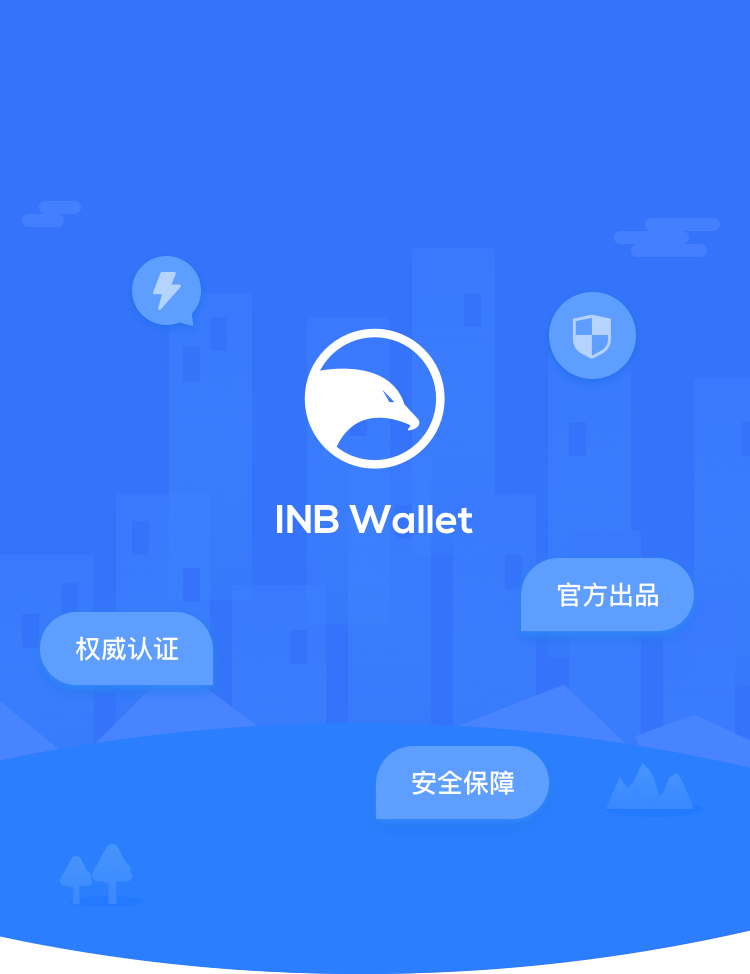
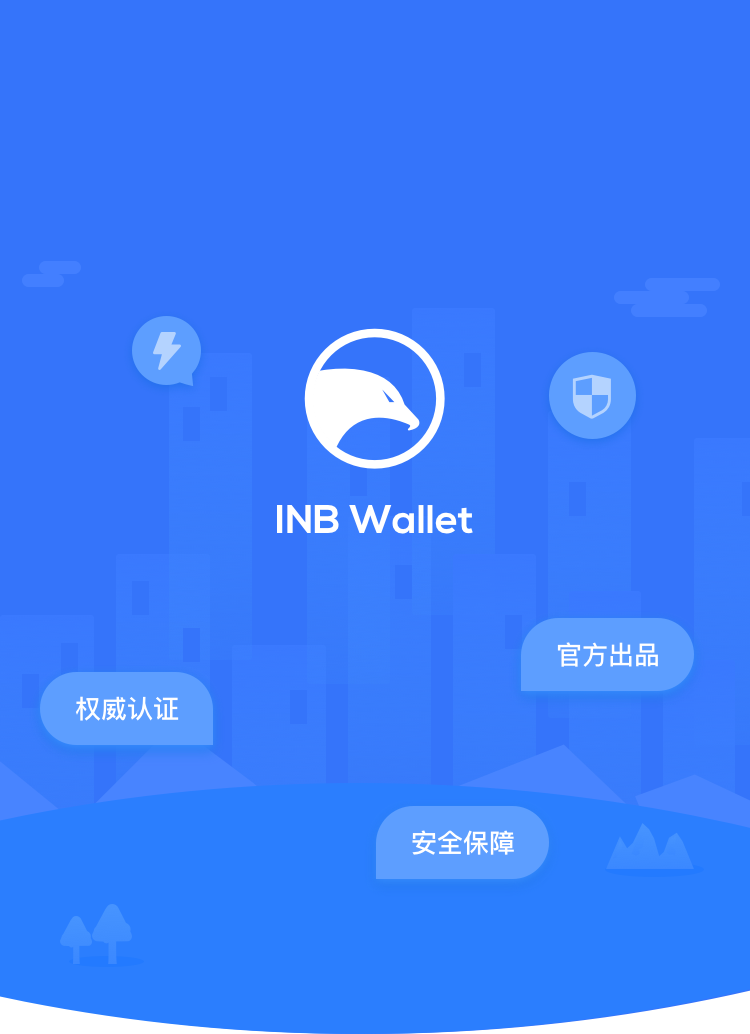
添加钱包都默认选中 修改二次提示框UI布局 修改loading不消失的bug 修改启动图

diff --git a/inb-wallet-ios/Common/Views/ConfirmView.m b/inb-wallet-ios/Common/Views/ConfirmView.m
@@ -358,7 +358,7 @@
     }];
     [self.toAddrStr mas_remakeConstraints:^(MASConstraintMaker *make) {
         make.left.right.mas_equalTo(self.numberStr);
-        make.top.mas_equalTo(self.numberStr.mas_bottom).mas_offset(15);
+        make.top.mas_equalTo(self.numberStr.mas_bottom).mas_offset(18);
     }];
     [self.toAddrValue mas_remakeConstraints:^(MASConstraintMaker *make) {
         make.top.mas_equalTo(self.toAddrStr);
@@ -366,7 +366,7 @@
     }];
     [self.noteStr mas_remakeConstraints:^(MASConstraintMaker *make) {
         make.left.right.mas_equalTo(self.toAddrStr);
-        make.top.mas_equalTo(self.toAddrValue.mas_bottom).mas_offset(15);
+        make.top.mas_equalTo(self.toAddrValue.mas_bottom).mas_offset(18);
     }];
     [self.noteValue mas_remakeConstraints:^(MASConstraintMaker *make) {
         make.left.right.mas_equalTo(self.toAddrValue);
@@ -508,7 +508,7 @@
     if(self.isLock){
         [self.lockNumberStr mas_remakeConstraints:^(MASConstraintMaker *make) {
             make.left.right.mas_equalTo(self.moneyNumberStr);
-            make.top.mas_equalTo(self.moneyNumberStr.mas_bottom).mas_offset(15);
+            make.top.mas_equalTo(self.moneyNumberStr.mas_bottom).mas_offset(18);
         }];
         [self.lockNumberValue mas_remakeConstraints:^(MASConstraintMaker *make) {
             make.left.right.mas_equalTo(self.moneyNumberValue);
@@ -516,7 +516,7 @@
         }];
         [self.rateStr mas_remakeConstraints:^(MASConstraintMaker *make) {
             make.left.right.mas_equalTo(self.lockNumberStr);
-            make.top.mas_equalTo(self.lockNumberStr.mas_bottom).mas_offset(15);
+            make.top.mas_equalTo(self.lockNumberStr.mas_bottom).mas_offset(18);
         }];
         [self.rateValue mas_remakeConstraints:^(MASConstraintMaker *make) {
             make.left.right.mas_equalTo(self.lockNumberValue);
@@ -525,7 +525,7 @@
         [self.tipImg_1 mas_remakeConstraints:^(MASConstraintMaker *make) {
             make.left.mas_equalTo(self.rateStr);
             make.width.height.mas_equalTo(15);
-            make.top.mas_equalTo(self.rateStr.mas_bottom).mas_offset(15);
+            make.top.mas_equalTo(self.rateStr.mas_bottom).mas_offset(18);
         }];
         [self.tipLabel_1 mas_remakeConstraints:^(MASConstraintMaker *make) {
             make.top.mas_equalTo(self.tipImg_1);
@@ -534,7 +534,7 @@
         }];
         [self.tipImg_2 mas_remakeConstraints:^(MASConstraintMaker *make) {
             make.left.mas_equalTo(self.tipImg_1);
-            make.top.mas_equalTo(self.tipLabel_1.mas_bottom).mas_offset(15);
+            make.top.mas_equalTo(self.tipLabel_1.mas_bottom).mas_offset(13);
         }];
         [self.tipLabel_2 mas_remakeConstraints:^(MASConstraintMaker *make) {
             make.left.right.mas_equalTo(self.tipLabel_1);
@@ -543,7 +543,7 @@
     }else{
         [self.tipImg_1 mas_remakeConstraints:^(MASConstraintMaker *make) {
             make.left.mas_equalTo(self.moneyNumberStr);
-            make.top.mas_equalTo(self.moneyNumberStr.mas_bottom).mas_offset(15);
+            make.top.mas_equalTo(self.moneyNumberStr.mas_bottom).mas_offset(18);
         }];
         [self.tipLabel_1 mas_remakeConstraints:^(MASConstraintMaker *make) {
             make.top.mas_equalTo(self.tipImg_1);
@@ -552,7 +552,7 @@
         }];
         [self.tipImg_2 mas_remakeConstraints:^(MASConstraintMaker *make) {
             make.left.mas_equalTo(self.tipImg_1);
-            make.top.mas_equalTo(self.tipLabel_1.mas_bottom).mas_offset(15);
+            make.top.mas_equalTo(self.tipLabel_1.mas_bottom).mas_offset(13);
         }];
         [self.tipLabel_2 mas_remakeConstraints:^(MASConstraintMaker *make) {
             make.left.right.mas_equalTo(self.tipLabel_1);
@@ -700,7 +700,7 @@
     }];
     [self.moneyNumberStr mas_remakeConstraints:^(MASConstraintMaker *make) {
         make.left.right.mas_equalTo(self.addrStr);
-        make.top.mas_equalTo(self.addrValue.mas_bottom).mas_offset(15);
+        make.top.mas_equalTo(self.addrValue.mas_bottom).mas_offset(18);
     }];
     [self.moneyNumberValue mas_remakeConstraints:^(MASConstraintMaker *make) {
         make.left.right.mas_equalTo(self.addrValue);
@@ -710,7 +710,7 @@
     [self.tipImg_1 mas_remakeConstraints:^(MASConstraintMaker *make) {
         make.width.height.mas_equalTo(15);
         make.left.mas_equalTo(self.moneyNumberStr);
-        make.top.mas_equalTo(self.moneyNumberValue.mas_bottom).mas_offset(15);
+        make.top.mas_equalTo(self.moneyNumberValue.mas_bottom).mas_offset(18);
     }];
     [self.tipLabel_1 mas_remakeConstraints:^(MASConstraintMaker *make) {
         make.left.mas_equalTo(self.tipImg_1.mas_right).mas_offset(10);
@@ -719,7 +719,7 @@
     }];
     [self.tipImg_2 mas_remakeConstraints:^(MASConstraintMaker *make) {
         make.left.mas_equalTo(self.tipImg_1);
-        make.top.mas_equalTo(self.tipLabel_1.mas_bottom).mas_offset(15);
+        make.top.mas_equalTo(self.tipLabel_1.mas_bottom).mas_offset(13);
     }];
     [self.tipLabel_2 mas_remakeConstraints:^(MASConstraintMaker *make) {
         make.left.right.mas_equalTo(self.tipLabel_1);
@@ -844,7 +844,7 @@
         make.left.top.mas_equalTo(0);
     }];
     [self.nodeImg mas_remakeConstraints:^(MASConstraintMaker *make) {
-        make.top.mas_equalTo(self.nodeStr.mas_bottom).mas_offset(15);
+        make.top.mas_equalTo(self.nodeStr.mas_bottom).mas_offset(18);
         make.left.right.mas_equalTo(0);
         make.bottom.mas_equalTo(self.nodeValue.mas_bottom).mas_offset(10);
     }];
@@ -855,7 +855,7 @@
     }];
     [self.voteStr mas_remakeConstraints:^(MASConstraintMaker *make) {
         make.left.mas_equalTo(self.nodeStr);
-        make.top.mas_equalTo(self.nodeImg.mas_bottom).mas_offset(15);
+        make.top.mas_equalTo(self.nodeImg.mas_bottom).mas_offset(18);
     }];
     [self.voteValue mas_remakeConstraints:^(MASConstraintMaker *make) {
         make.left.mas_equalTo(self.voteStr.mas_right).mas_offset(5);
@@ -864,7 +864,7 @@
     [self.tipImg_1 mas_remakeConstraints:^(MASConstraintMaker *make) {
         make.left.mas_equalTo(self.voteStr);
         make.width.height.mas_equalTo(15);
-        make.top.mas_equalTo(self.voteValue.mas_bottom).mas_offset(15);
+        make.top.mas_equalTo(self.voteValue.mas_bottom).mas_offset(18);
     }];
     [self.tipLabel_1 mas_remakeConstraints:^(MASConstraintMaker *make) {
         make.top.mas_equalTo(self.tipImg_1);
@@ -872,7 +872,7 @@
         make.right.mas_equalTo(0);
     }];
     [self.tipImg_2 mas_remakeConstraints:^(MASConstraintMaker *make) {
-        make.top.mas_equalTo(self.tipLabel_1.mas_bottom).mas_offset(15);
+        make.top.mas_equalTo(self.tipLabel_1.mas_bottom).mas_offset(13);
         make.left.mas_equalTo(self.tipImg_1);
     }];
     [self.tipLabel_2 mas_remakeConstraints:^(MASConstraintMaker *make) {

diff --git a/inb-wallet-ios/Transfer/ViewControllers/TransferVC.m b/inb-wallet-ios/Transfer/ViewControllers/TransferVC.m
@@ -12,6 +12,7 @@
 
 #import "WalletManager.h"
 
+#import "TransferResultView.h"
 #import "ConfirmView.h"
 #import "PasswordInputView.h"
 #import "SWQRCode.h"
@@ -220,12 +221,14 @@
                                                                     [MBProgressHUD hideHUDForView:App_Delegate.window animated:YES];
 
                                                                     if (error) {
-                                                                        [MBProgressHUD showMessage:NSLocalizedString(@"transfer.result.failed", @"转账失败") toView:App_Delegate.window afterDelay:1 animted:NO];
+//                                                                        [MBProgressHUD showMessage:NSLocalizedString(@"transfer.result.failed", @"转账失败") toView:App_Delegate.window afterDelay:1 animted:NO];
+                                                                        [TransferResultView resultFailedWithTitle:NSLocalizedString(@"transfer.result.failed", @"转账失败") message:@"网络请求错误"];
                                                                         return ;
                                                                     }
                                                                     NSString *errorStr = responseObject[@"error"][@"message"];
                                                                     if(errorStr){
-                                                                        [MBProgressHUD showMessage:NSLocalizedString(@"transfer.result.failed", @"转账失败") toView:App_Delegate.window afterDelay:1 animted:NO];
+//                                                                        [MBProgressHUD showMessage:NSLocalizedString(@"transfer.result.failed", @"转账失败") toView:App_Delegate.window afterDelay:1 animted:NO];
+                                                                        [TransferResultView resultFailedWithTitle:NSLocalizedString(@"transfer.result.failed", @"转账失败") message:errorStr];
                                                                         return ;
                                                                     }
                                                                     NSLog(@"%@---%@",[responseObject  class], responseObject);

diff --git a/inb-wallet-ios/Common/Views/TransferResultView.m b/inb-wallet-ios/Common/Views/TransferResultView.m
@@ -37,6 +37,9 @@
     TransferResultView *resultView = [[TransferResultView alloc] initWithTitle:title];
     resultView.frame = CGRectMake(0, 0, KWIDTH, KHEIGHT);
     [resultView makeFiledViewWithError:(NSString *)message];
+    [resultView layoutIfNeeded];
+    resultView.contenView.layer.cornerRadius = 4;
+    resultView.contenView.layer.masksToBounds = YES;
     [App_Delegate.window addSubview:resultView];
     return resultView;
 }
@@ -44,13 +47,18 @@
     TransferResultView *resultView = [[TransferResultView alloc] initWithTitle:title];
     resultView.frame = CGRectMake(0, 0, KWIDTH, KHEIGHT);
     [resultView makeLockViewWithLockNumber:lockNumber value:value];
-    
+    [resultView layoutIfNeeded];
+    resultView.contenView.layer.cornerRadius = 4;
+    resultView.contenView.layer.masksToBounds = YES;
     [App_Delegate.window addSubview:resultView];
     return resultView;
 }
 +(instancetype)resultSuccessVoteWithTitle:(NSString *)title voteNumber:(NSInteger)voteNumber voteNames:(NSArray *)names{
     TransferResultView *resultView = [[TransferResultView alloc] initWithTitle:title];
     resultView.frame = CGRectMake(0, 0, KWIDTH, KHEIGHT);
+    [resultView layoutIfNeeded];
+    resultView.contenView.layer.cornerRadius = 4;
+    resultView.contenView.layer.masksToBounds = YES;
     [App_Delegate.window addSubview:resultView];
     return resultView;
 }
@@ -338,6 +346,7 @@
         _voteValue = [[UILabel alloc] init];
         _voteValue.textColor = kColorTitle;
         _voteValue.font = [UIFont systemFontOfSize:12];
+        _voteValue.numberOfLines = 0;
     }
     return _voteValue;
 }

diff --git a/inb-wallet-ios/Wallet/ViewControllers/WalletInfoVC.m b/inb-wallet-ios/Wallet/ViewControllers/WalletInfoVC.m
@@ -92,7 +92,7 @@
     [self initNavi];
     
     [NotificationCenter addObserver:self selector:@selector(addWalletNoti:) name:NOTI_ADD_WALLET object:nil];
-    [NotificationCenter addObserver:self selector:@selector(addWalletNoti:) name:NOTI_DELETE_WALLET object:nil];
+    [NotificationCenter addObserver:self selector:@selector(deleteWalletNoti:) name:NOTI_DELETE_WALLET object:nil];
     [NotificationCenter addObserver:self selector:@selector(mortgageChangeNoti:) name:NOTI_MORTGAGE_CHANGE object:nil];
     [NotificationCenter addObserver:self selector:@selector(mortgageChangeNoti:) name:NOTI_BALANCE_CHANGE object:nil];
     
@@ -617,13 +617,21 @@
     BasicWallet *wallet = noti.object;
     Identity *identi = [Identity currentIdentity];
     if(identi.wallets.count != 0){
+        self.selectedWallet = wallet ? wallet : [identi.wallets lastObject];
+        self.wallets = identi.wallets;
+        return ;
+    }
+    [self changeToCreate];
+}
+-(void)deleteWalletNoti:(NSNotification *)noti{
+    Identity *identi = [Identity currentIdentity];
+    if(identi.wallets.count != 0){
         self.selectedWallet = [identi.wallets lastObject];
         self.wallets = identi.wallets;
         return ;
     }
     [self changeToCreate];
 }
-
 -(void)changeToCreate{
     WelcomVC *welcomVC = [[WelcomVC alloc] init];
     /** 导航栏背景色 **/

diff --git a/inb-wallet-ios/Wallet/ViewControllers/WalletDetailVC.m b/inb-wallet-ios/Wallet/ViewControllers/WalletDetailVC.m
@@ -84,7 +84,7 @@
                                         NSString *menmonry = [tmpSelf.wallet exportMnemonic:password];
                                         dispatch_async(dispatch_get_main_queue(), ^{
                                             [self.passwordInput hidePasswordInput];
-                                            [MBProgressHUD hideHUDForView:tmpSelf.view animated:YES];
+                                            [MBProgressHUD hideHUDForView:App_Delegate.window animated:YES];
                                             WalletBackupVC *backupVC = [[WalletBackupVC alloc] init];
                                             backupVC.navigationItem.title = NSLocalizedString(@"backupWallet", @"备份钱包");
                                             backupVC.privateKey = private;

diff --git a/inb-wallet-ios/Wallet/Views/WalletAccountsListView.m b/inb-wallet-ios/Wallet/Views/WalletAccountsListView.m
@@ -93,12 +93,12 @@ static double cellHeight = 70;
     }];
     [self.addAccountView mas_remakeConstraints:^(MASConstraintMaker *make) {
         make.left.right.mas_equalTo(0);
+        make.bottom.mas_equalTo(0);
         if (iPhoneX) {
-            make.bottom.mas_equalTo(0+20);
+            make.height.mas_equalTo(65+20);
         }else{
-            make.bottom.mas_equalTo(0);
+            make.height.mas_equalTo(65);
         }
-        make.height.mas_equalTo(65);
     }];
     
     [self.packUpImg mas_remakeConstraints:^(MASConstraintMaker *make) {

diff --git a/inb-wallet-ios/Resources/ViewControllers/mortgageVC.m b/inb-wallet-ios/Resources/ViewControllers/mortgageVC.m
@@ -347,6 +347,12 @@
     });
 }
 
+#pragma mark ---- Button
+//我知道了
+-(void)cancelAction{
+    
+}
+
 #pragma mark ---- UITableViewDatasource && Delegate
 -(NSInteger)tableView:(UITableView *)tableView numberOfRowsInSection:(NSInteger)section{
     return 0.00001;
